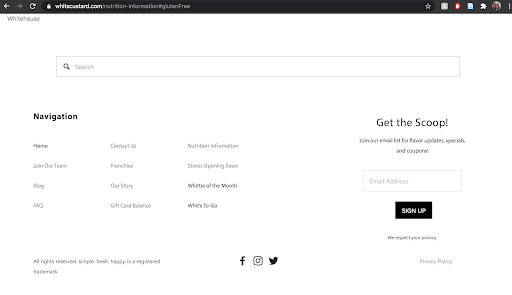
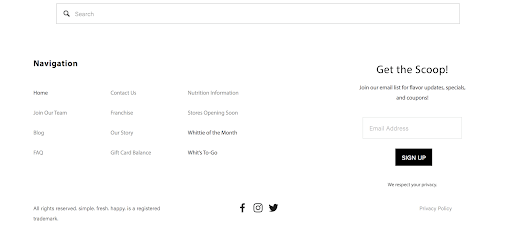
Resolutions
tried making website work with more resolutions :)

diff --git a/index.html b/index.html
@@ -31,57 +31,94 @@
     </div>
   </div>
   <div class="row">
-    <div class="col-lg-1">
+    <div class="col-lg-1 col-md-1 col-sm-1 col-xs-1">
       <div class="tasks">
         <h1>Task</h1>
         <h2>1</h2>
       </div>
       <div class="vl"></div>
-      <div class="tasks">
-        <h1>Task</h1>
-        <h2>2</h2>
-      </div>
-      <div class="vl"></div>
-      <div class="tasks">
-        <h1>Task</h1>
-        <h2>3</h2>
-      </div>
-      <div class="vl"></div>
-      <div class="tasks">
-        <h1>Task</h1>
-        <h2>4</h2>
-      </div>
-      <div class="vl"></div>
-      <div class="tasks">
-        <h1>Task</h1>
-        <h2>5</h2>
-      </div>
     </div>
-    <div class="col-lg-6">
+    <div class="col-lg-6 col-md-6 col-sm-6 col-xs-6">
       <h4>Find The Flavor of the Week</h4>
         <h5>Time: 12 seconds</h5>
         <h5>Accuracy: Found it</h5>
         <h5>Recall: Remembered whats under menu</h5>
         <h5>Emotional Response: Calm</h5>
         <h5>Success: Yes</h5>
+    </div>
+    <div class="col-lg-5 col-md-5 col-sm-5 col-xs-5">
+      <img src="./assets/img/flavofweek.png" alt="Flavor Of The Week" class="img-fluid">
+    </div>
+  </div>
+  <div class="row">
+    <div class="col-lg-1 col-md-1 col-sm-1 col-xs-1">
+      <div class="tasks">
+        <h1>Task</h1>
+        <h2>2</h2>
+      </div>
+      <div class="vl"></div>
+    </div>
+    <div class="col-lg-6 col-md-6 col-sm-6 col-xs-6">
       <h4>Find Whit's Twitter Handle</h4>
         <h5>Time: 11 seconds</h5>
         <h5>Accuracy: Found it</h5>
         <h5>Recall: Past website experience</h5>
         <h5>Emotional Response: Calm</h5>
         <h5>Success: Yes</h5>
+    </div>
+    <div class="col-lg-5 col-md-5 col-sm-5 col-xs-5">
+      <img src="./assets/img/twitterhandle.png" alt="Twitter Handle" class="img-fluid">
+    </div>
+  </div>
+
+  <div class="row">
+    <div class="col-lg-1 col-md-1 col-sm-1 col-xs-1">
+      <div class="tasks">
+        <h1>Task</h1>
+        <h2>3</h2>
+      </div>
+      <div class="vl"></div>
+    </div>
+    <div class="col-lg-6 col-md-6 col-sm-6 col-xs-6">
       <h4>Find Mount Airy Location</h4>
         <h5>Time: 90 seconds</h5>
         <h5>Accuracy: Found it after a while</h5>
         <h5>Recall: Past website experience</h5>
         <h5>Emotional Response: Frustrated</h5>
         <h5>Success: Yes</h5>
+    </div>
+    <div class="col-lg-5 col-md-5 col-sm-5 col-xs-5">
+      <img src="./assets/img/location.png" alt="Mount Airy Location" class="img-fluid">
+    </div>
+  </div>
+  <div class="row">
+    <div class="col-lg-1 col-md-1 col-sm-1 col-xs-1">
+      <div class="tasks">
+        <h1>Task</h1>
+        <h2>4</h2>
+      </div>
+      <div class="vl"></div>
+    </div>
+    <div class="col-lg-6 col-md-6 col-sm-6 col-xs-6">
       <h4>Find Whit's To Go Order Menu</h4>
         <h5>Time: 30 seconds</h5>
         <h5>Accuracy: Found it</h5>
         <h5>Recall: N/A</h5>
         <h5>Emotional Response: Calm</h5>
         <h5>Success: Yes</h5>
+    </div>
+    <div class="col-lg-5 col-md-5 col-sm-5 col-xs-5">
+      <img src="./assets/img/togo.png" alt="To Go Menu" class="img-fluid">
+    </div>
+  </div>
+  <div class="row">
+    <div class="col-lg-1 col-md-1 col-sm-1 col-xs-1">
+      <div class="tasks">
+        <h1>Task</h1>
+        <h2>5</h2>
+      </div>
+    </div>
+    <div class="col-lg-6 col-md-6 col-sm-6 col-xs-6">
       <h4>Find a Gluten Free Option</h4>
         <h5>Time: 9 seconds</h5>
         <h5>Accuracy: Found it very fast</h5>
@@ -89,17 +126,10 @@
         <h5>Emotional Response: Calm</h5>
         <h5>Success: Yes</h5>
     </div>
-    <div class="col-lg-5">
-      <img src="./assets/img/flavofweek.png" alt="Flavor Of The Week">
-      <img src="./assets/img/twitterhandle.png" alt="Twitter Handle">
-      <img src="./assets/img/location.png" alt="Mount Airy Location">
-      <img src="./assets/img/togo.png" alt="To Go Menu">
-      <img src="./assets/img/glutenfree.png" alt="Gluten Free Option">
+    <div class="col-lg-5 col-md-5 col-sm-5 col-xs-5">
+      <img src="./assets/img/glutenfree.png" alt="Gluten Free Option" class="img-fluid">
     </div>
   </div>
-</div>
-
-
 
 <!-- links to javascripts -->
 <script src="https://code.jquery.com/jquery-3.5.1.slim.min.js" integrity="sha384-DfXdz2htPH0lsSSs5nCTpuj/zy4C+OGpamoFVy38MVBnE+IbbVYUew+OrCXaRkfj" crossorigin="anonymous"></script>

diff --git a/assets/css/styles.css b/assets/css/styles.css
@@ -30,7 +30,7 @@ h4{
   padding-left: 40px;
 }
 h5{
-  
+
   font-size: 20px;
   color: rgb(234,235,237);
   text-align: left;
@@ -38,26 +38,23 @@ h5{
   padding-left: 100px;
 }
 h6{
-  font-size: 20px;
+  font-size: 30px;
   color: rgb(51,30,56);
   text-align: center;
-  padding-left: 80px;
 }
 p{
-  font-size: 15px;
+  font-size: 20px;
   color: rgb(234,235,237);
   text-align: center;
-  padding-left: 80px;
 }
 img{
   margin-top:60px;
-  width:400px;
-  height:220px;
+  padding-bottom: 30px;
 }
 .vl{
   border-left: 1px solid;
   border-color: rgba(234,235,237,.4);
-  height: 195px;
+  height: 230px;
   margin-left: 40px;
 }
 .tasks {
@@ -73,4 +70,17 @@ img{
   padding-right: 60px;
   padding-bottom: 30px;
   background-color: rgb(112, 105, 147);
+}
+.vl{
+    display: block;
+}
+
+@media (max-width: 1200px)
+{
+    .vl{
+        display: none;
+    }
+    h5{
+      padding-left: 40px;
+    }
 }
